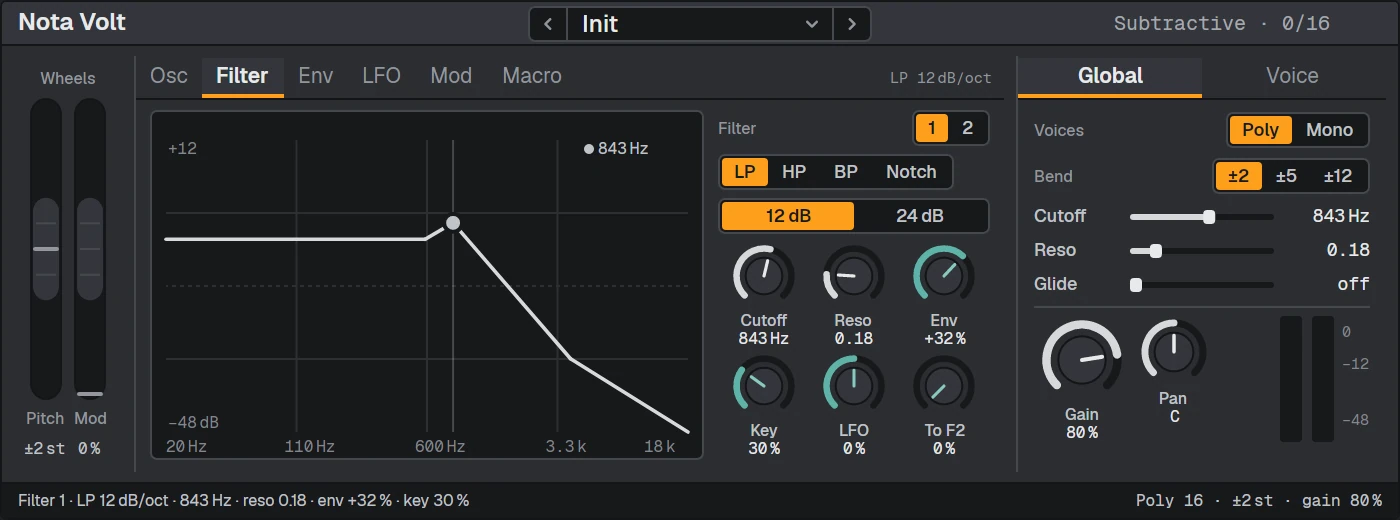
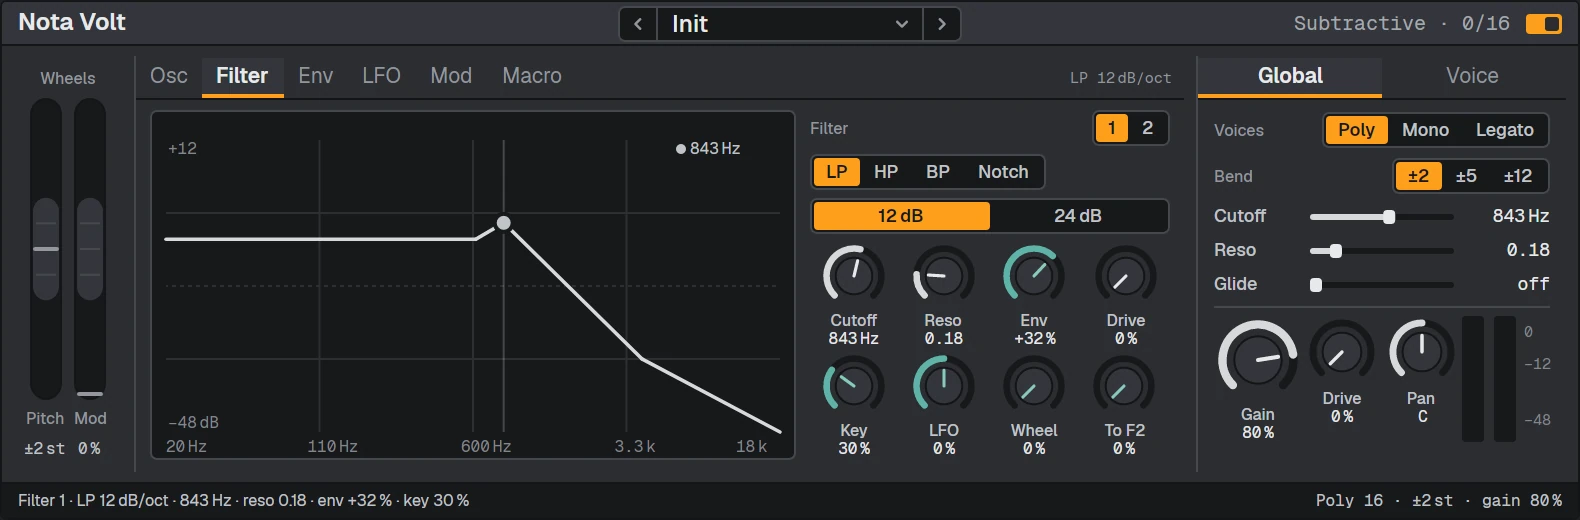
Volt takes over Nota Synth and Nota Bass
Document Volt's new Shape / PW, filter Drive, wheel-to-LFO, voice modes, output Drive and
unison stack, its 74 presets, and the default-instrument change. Nota Synth and Nota Bass
pages now point to Volt. Retake the Volt shots and add the Voice rail.

Harness: match nota's Avalonia 12.1.4 and load instrument presets onto the shown track.

diff --git a/shots/app/Scenes.cs b/shots/app/Scenes.cs
@@ -138,7 +138,9 @@ public sealed class Scenes
         }
         if (shot.Str("preset") is string preset)
         {
-            var result = deviceIndex >= 0 && shot.Int("midi") is null
+            // An effect preset loads onto its device, an instrument preset onto the track's
+            // instrument (index -1); a MIDI-effect preset adds its device.
+            var result = shot.Int("midi") is null
                 ? _presets.ApplyInPlace(_engine, preset, track, deviceIndex)
                 : _presets.Apply(_engine, preset, track);
             if (!string.IsNullOrEmpty(result) && result.StartsWith("Unknown")) throw new ArgumentException($"{result} ({preset})");
